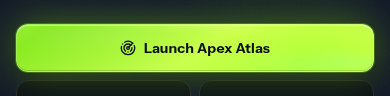
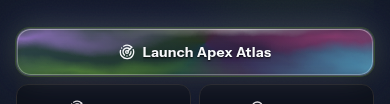
style(ui): dark liquid chrome Launch — warp + purple/cyan (not flat lime)

diff --git a/artifacts/apex-finder/src/index.css b/artifacts/apex-finder/src/index.css
@@ -120,136 +120,171 @@ body {
     0 0 28px rgba(156, 255, 26, 0.07);
 }
 
-/* Primary CTA — liquid chrome / iridescent distortion */
+/* Primary CTA — liquid chrome / mercury mirror (ref: iridescent distortion) */
 .atlas-launch-glow {
   position: relative;
   isolation: isolate;
   overflow: hidden;
-  color: #0a0f0c;
+  color: #f8fafc;
   font-weight: 700;
-  letter-spacing: 0.01em;
-  border: 1px solid rgba(255, 255, 255, 0.28);
+  letter-spacing: 0.02em;
+  text-shadow:
+    0 1px 2px rgba(0, 0, 0, 0.85),
+    0 0 12px rgba(0, 0, 0, 0.45);
+  border: 1px solid rgba(255, 255, 255, 0.22);
+  border-radius: 14px;
+  /* Dark liquid metal base — not flat lime */
   background:
-    linear-gradient(145deg,
-      #d4ff6a 0%,
-      #9CFF1A 28%,
-      #7ae812 52%,
-      #c8ff4a 72%,
-      #9CFF1A 100%);
-  background-size: 220% 220%;
+    linear-gradient(160deg,
+      #2a3344 0%,
+      #0f141c 22%,
+      #1a2230 45%,
+      #0c1018 68%,
+      #243044 100%);
+  background-size: 180% 180%;
   box-shadow:
-    0 0 0 1px rgba(156, 255, 26, 0.25),
-    0 0 36px rgba(156, 255, 26, 0.4),
-    0 4px 18px rgba(0, 0, 0, 0.5),
-    inset 0 1px 0 rgba(255, 255, 255, 0.45),
-    inset 0 -1px 0 rgba(0, 0, 0, 0.18);
+    0 0 0 1px rgba(156, 255, 26, 0.15),
+    0 0 40px rgba(120, 80, 255, 0.28),
+    0 0 28px rgba(156, 255, 26, 0.18),
+    0 8px 24px rgba(0, 0, 0, 0.55),
+    inset 0 1px 0 rgba(255, 255, 255, 0.2),
+    inset 0 -2px 8px rgba(0, 0, 0, 0.5);
   transition:
-    box-shadow 220ms ease,
-    transform 135ms cubic-bezier(0.2, 1, 0.32, 1),
+    box-shadow 240ms ease,
+    transform 140ms cubic-bezier(0.2, 1, 0.32, 1),
     filter 180ms ease;
-  animation: atlas-liquid-flow 7.5s ease-in-out infinite;
+  animation: atlas-chrome-base 10s ease-in-out infinite;
 }
 
-/* Iridescent chromatic sheen (purple / cyan / white like liquid glass) */
-.atlas-launch-glow::before {
-  content: "";
+/* Liquid distortion mesh — heavy warp layer */
+.atlas-launch-glow .atlas-liquid-mesh {
   position: absolute;
-  inset: -20%;
+  inset: -30%;
   z-index: 0;
   pointer-events: none;
   background:
-    radial-gradient(ellipse 60% 45% at 18% 30%, rgba(186, 120, 255, 0.55) 0%, transparent 55%),
-    radial-gradient(ellipse 50% 40% at 82% 70%, rgba(80, 220, 255, 0.5) 0%, transparent 55%),
-    radial-gradient(ellipse 40% 35% at 50% 15%, rgba(255, 255, 255, 0.55) 0%, transparent 50%),
-    radial-gradient(ellipse 55% 45% at 70% 25%, rgba(255, 80, 160, 0.28) 0%, transparent 50%),
-    linear-gradient(115deg,
-      transparent 0%,
-      rgba(255, 255, 255, 0.35) 28%,
-      transparent 42%,
-      rgba(180, 100, 255, 0.25) 58%,
-      transparent 72%,
-      rgba(80, 230, 255, 0.3) 88%,
-      transparent 100%);
-  background-size: 100% 100%, 100% 100%, 100% 100%, 100% 100%, 280% 100%;
-  mix-blend-mode: soft-light;
-  opacity: 0.95;
-  animation: atlas-liquid-sheen 5.5s ease-in-out infinite;
+    radial-gradient(ellipse 50% 40% at 20% 30%, rgba(186, 120, 255, 0.7) 0%, transparent 55%),
+    radial-gradient(ellipse 45% 50% at 80% 70%, rgba(60, 220, 255, 0.65) 0%, transparent 55%),
+    radial-gradient(ellipse 40% 35% at 55% 20%, rgba(255, 255, 255, 0.5) 0%, transparent 50%),
+    radial-gradient(ellipse 55% 40% at 30% 80%, rgba(156, 255, 26, 0.35) 0%, transparent 55%),
+    radial-gradient(ellipse 35% 40% at 70% 40%, rgba(255, 60, 140, 0.4) 0%, transparent 50%),
+    conic-gradient(from 120deg at 50% 50%,
+      rgba(180, 100, 255, 0.25),
+      rgba(60, 220, 255, 0.2),
+      rgba(156, 255, 26, 0.15),
+      rgba(255, 80, 160, 0.2),
+      rgba(180, 100, 255, 0.25));
+  mix-blend-mode: screen;
+  opacity: 0.9;
   filter: url(#atlas-liquid-distort);
+  animation: atlas-liquid-mesh-drift 6s ease-in-out infinite;
 }
 
-/* Specular highlight strip that drifts */
-.atlas-launch-glow::after {
-  content: "";
+/* Mercury specular + chromatic fringe */
+.atlas-launch-glow .atlas-liquid-sheen {
   position: absolute;
   inset: 0;
-  z-index: 0;
+  z-index: 1;
   pointer-events: none;
-  background: linear-gradient(
-    105deg,
-    transparent 0%,
-    transparent 38%,
-    rgba(255, 255, 255, 0.55) 48%,
-    rgba(255, 255, 255, 0.15) 52%,
-    transparent 62%,
-    transparent 100%
-  );
-  background-size: 220% 100%;
-  mix-blend-mode: overlay;
-  animation: atlas-liquid-specular 4.2s ease-in-out infinite;
-  opacity: 0.85;
+  border-radius: inherit;
+  background:
+    linear-gradient(
+      118deg,
+      transparent 0%,
+      transparent 30%,
+      rgba(255, 255, 255, 0.55) 46%,
+      rgba(200, 160, 255, 0.35) 50%,
+      rgba(80, 230, 255, 0.3) 54%,
+      transparent 68%,
+      transparent 100%
+    ),
+    linear-gradient(
+      200deg,
+      rgba(255, 255, 255, 0.12) 0%,
+      transparent 40%,
+      transparent 70%,
+      rgba(120, 80, 255, 0.15) 100%
+    );
+  background-size: 240% 100%, 100% 100%;
+  mix-blend-mode: soft-light;
+  animation: atlas-liquid-specular 3.8s ease-in-out infinite;
+  opacity: 0.95;
 }
 
-.atlas-launch-glow > * {
-  position: relative;
+/* Organic white edge glow (like AR silhouette) */
+.atlas-launch-glow .atlas-liquid-rim {
+  position: absolute;
+  inset: 0;
   z-index: 1;
+  pointer-events: none;
+  border-radius: inherit;
+  box-shadow:
+    inset 0 0 0 1px rgba(255, 255, 255, 0.35),
+    inset 0 0 18px rgba(255, 255, 255, 0.08),
+    0 0 12px rgba(186, 120, 255, 0.35),
+    0 0 20px rgba(60, 220, 255, 0.2);
+  animation: atlas-liquid-rim-pulse 4s ease-in-out infinite;
+}
+
+.atlas-launch-glow > .atlas-liquid-label {
+  position: relative;
+  z-index: 2;
+  display: inline-flex;
+  align-items: center;
+  gap: 0.5rem;
 }
 
 .atlas-launch-glow:hover {
-  filter: brightness(1.06) saturate(1.12);
+  filter: brightness(1.08) saturate(1.2);
   box-shadow:
     0 0 0 1px rgba(255, 255, 255, 0.35),
-    0 0 56px rgba(156, 255, 26, 0.5),
-    0 0 28px rgba(160, 100, 255, 0.25),
-    0 6px 22px rgba(0, 0, 0, 0.55),
-    inset 0 1px 0 rgba(255, 255, 255, 0.55);
-  animation-duration: 4.5s;
+    0 0 56px rgba(140, 90, 255, 0.4),
+    0 0 36px rgba(60, 220, 255, 0.3),
+    0 0 24px rgba(156, 255, 26, 0.25),
+    0 8px 28px rgba(0, 0, 0, 0.6),
+    inset 0 1px 0 rgba(255, 255, 255, 0.35);
 }
-.atlas-launch-glow:hover::before {
-  animation-duration: 3.2s;
+.atlas-launch-glow:hover .atlas-liquid-mesh {
+  animation-duration: 3.5s;
   opacity: 1;
 }
-.atlas-launch-glow:hover::after {
-  animation-duration: 2.6s;
+.atlas-launch-glow:hover .atlas-liquid-sheen {
+  animation-duration: 2.4s;
 }
 
 .atlas-launch-glow:active {
   transform: scale(0.97);
-  filter: brightness(0.96) saturate(1.05);
+  filter: brightness(0.95);
   box-shadow:
-    0 0 0 1px rgba(255, 255, 255, 0.25),
-    0 0 22px rgba(156, 255, 26, 0.32),
-    inset 0 2px 10px rgba(0, 0, 0, 0.28);
+    0 0 0 1px rgba(255, 255, 255, 0.2),
+    0 0 20px rgba(120, 80, 255, 0.3),
+    inset 0 3px 12px rgba(0, 0, 0, 0.45);
 }
 
 .atlas-launch-glow.atlas-click-flash {
   animation: atlas-click-flash 480ms cubic-bezier(0.2, 1, 0.32, 1);
 }
 
-@keyframes atlas-liquid-flow {
-  0%   { background-position: 0% 40%; }
-  50%  { background-position: 100% 60%; }
-  100% { background-position: 0% 40%; }
+@keyframes atlas-chrome-base {
+  0%, 100% { background-position: 0% 40%; }
+  50% { background-position: 100% 60%; }
 }
-@keyframes atlas-liquid-sheen {
-  0%   { transform: translate3d(-4%, -2%, 0) scale(1.05) rotate(0deg); background-position: 0% 0%, 100% 100%, 50% 0%, 80% 20%, 0% 50%; }
-  50%  { transform: translate3d(5%, 3%, 0) scale(1.08) rotate(2deg); background-position: 100% 50%, 0% 0%, 30% 80%, 20% 60%, 100% 50%; }
-  100% { transform: translate3d(-4%, -2%, 0) scale(1.05) rotate(0deg); background-position: 0% 0%, 100% 100%, 50% 0%, 80% 20%, 0% 50%; }
+@keyframes atlas-liquid-mesh-drift {
+  0%   { transform: translate3d(-6%, -4%, 0) scale(1.12) rotate(-2deg); }
+  33%  { transform: translate3d(5%, 3%, 0) scale(1.18) rotate(3deg); }
+  66%  { transform: translate3d(2%, -5%, 0) scale(1.1) rotate(-1deg); }
+  100% { transform: translate3d(-6%, -4%, 0) scale(1.12) rotate(-2deg); }
 }
 @keyframes atlas-liquid-specular {
-  0%   { background-position: 0% 0%; opacity: 0.55; }
-  40%  { background-position: 60% 0%; opacity: 0.9; }
-  100% { background-position: 140% 0%; opacity: 0.55; }
+  0%   { background-position: -20% 0%, 0% 0%; opacity: 0.7; }
+  45%  { background-position: 70% 0%, 100% 0%; opacity: 1; }
+  100% { background-position: 140% 0%, 0% 0%; opacity: 0.7; }
 }
+@keyframes atlas-liquid-rim-pulse {
+  0%, 100% { opacity: 0.85; filter: brightness(1); }
+  50% { opacity: 1; filter: brightness(1.15); }
+}
+
 
 /* Shimmer loading */
 .atlas-shimmer-sweep { position: relative; overflow: hidden; }
@@ -482,6 +517,16 @@ button:not(:disabled):active:not(.atlas-launch-glow):not(.atlas-outline-btn):not
 }
 
 @media (prefers-reduced-motion: reduce) {
+  .atlas-launch-glow,
+  .atlas-launch-glow .atlas-liquid-mesh,
+  .atlas-launch-glow .atlas-liquid-sheen,
+  .atlas-launch-glow .atlas-liquid-rim {
+    animation: none !important;
+  }
+  .atlas-launch-glow .atlas-liquid-mesh {
+    filter: none !important;
+  }
+
   .atlas-launch-glow,
   .atlas-launch-glow:hover {
     animation: none !important;

diff --git a/artifacts/apex-finder/src/components/launch-atlas-button.tsx b/artifacts/apex-finder/src/components/launch-atlas-button.tsx
@@ -136,21 +136,32 @@ export function LaunchAtlasButton({
           className,
         )}
       >
-        {busy || run.active ? (
-          <Loader2 className="h-4 w-4 animate-spin shrink-0" aria-hidden />
-        ) : variant === "header" ? (
-          <Crosshair className="h-3.5 w-3.5 shrink-0" aria-hidden />
-        ) : (
-          <Radar className="h-4 w-4 shrink-0" aria-hidden />
+        {(variant === "primary" || variant === "reactor") && !running && (
+          <>
+            <span className="atlas-liquid-mesh" aria-hidden />
+            <span className="atlas-liquid-sheen" aria-hidden />
+            <span className="atlas-liquid-rim" aria-hidden />
+          </>
         )}
-        <span
-          className={cn(
-            "truncate max-w-[14rem] sm:max-w-none",
-            /* Header on phone: icon-only — label lives in aria-label */
-            variant === "header" && "hidden sm:inline",
+        <span className={cn(
+          (variant === "primary" || variant === "reactor") && !running && "atlas-liquid-label",
+          "inline-flex items-center gap-2",
+        )}>
+          {busy || run.active ? (
+            <Loader2 className="h-4 w-4 animate-spin shrink-0" aria-hidden />
+          ) : variant === "header" ? (
+            <Crosshair className="h-3.5 w-3.5 shrink-0" aria-hidden />
+          ) : (
+            <Radar className="h-4 w-4 animate-pulse shrink-0" aria-hidden />
           )}
-        >
-          {running ? runningLabel : idleLabel}
+          <span
+            className={cn(
+              "truncate max-w-[14rem] sm:max-w-none",
+              variant === "header" && "hidden sm:inline",
+            )}
+          >
+            {running ? runningLabel : idleLabel}
+          </span>
         </span>
       </button>
 

diff --git a/artifacts/apex-finder/src/components/layout.tsx b/artifacts/apex-finder/src/components/layout.tsx
@@ -185,11 +185,13 @@ export function Layout({ children }: { children: React.ReactNode }) {
     <div className="atlas-noise flex min-h-[100dvh] min-h-[100svh] overflow-hidden bg-background text-foreground">
       <svg aria-hidden="true" width="0" height="0" style={{ position: "absolute", width: 0, height: 0, overflow: "hidden" }}>
         <defs>
-          <filter id="atlas-liquid-distort" x="-25%" y="-25%" width="150%" height="150%" colorInterpolationFilters="sRGB">
-            <feTurbulence type="fractalNoise" baseFrequency="0.02 0.03" numOctaves="3" seed="11" result="noise">
-              <animate attributeName="baseFrequency" dur="8s" values="0.02 0.03;0.03 0.02;0.015 0.035;0.02 0.03" repeatCount="indefinite" />
+          <filter id="atlas-liquid-distort" x="-40%" y="-40%" width="180%" height="180%" colorInterpolationFilters="sRGB">
+            <feTurbulence type="fractalNoise" baseFrequency="0.012 0.02" numOctaves="4" seed="3" result="noise">
+              <animate attributeName="baseFrequency" dur="6s" values="0.012 0.02;0.025 0.015;0.01 0.028;0.012 0.02" repeatCount="indefinite" />
             </feTurbulence>
-            <feDisplacementMap in="SourceGraphic" in2="noise" scale="12" xChannelSelector="R" yChannelSelector="G" />
+            <feDisplacementMap in="SourceGraphic" in2="noise" scale="36" xChannelSelector="R" yChannelSelector="G">
+              <animate attributeName="scale" dur="5s" values="28;42;32;36;28" repeatCount="indefinite" />
+            </feDisplacementMap>
           </filter>
         </defs>
       </svg>
